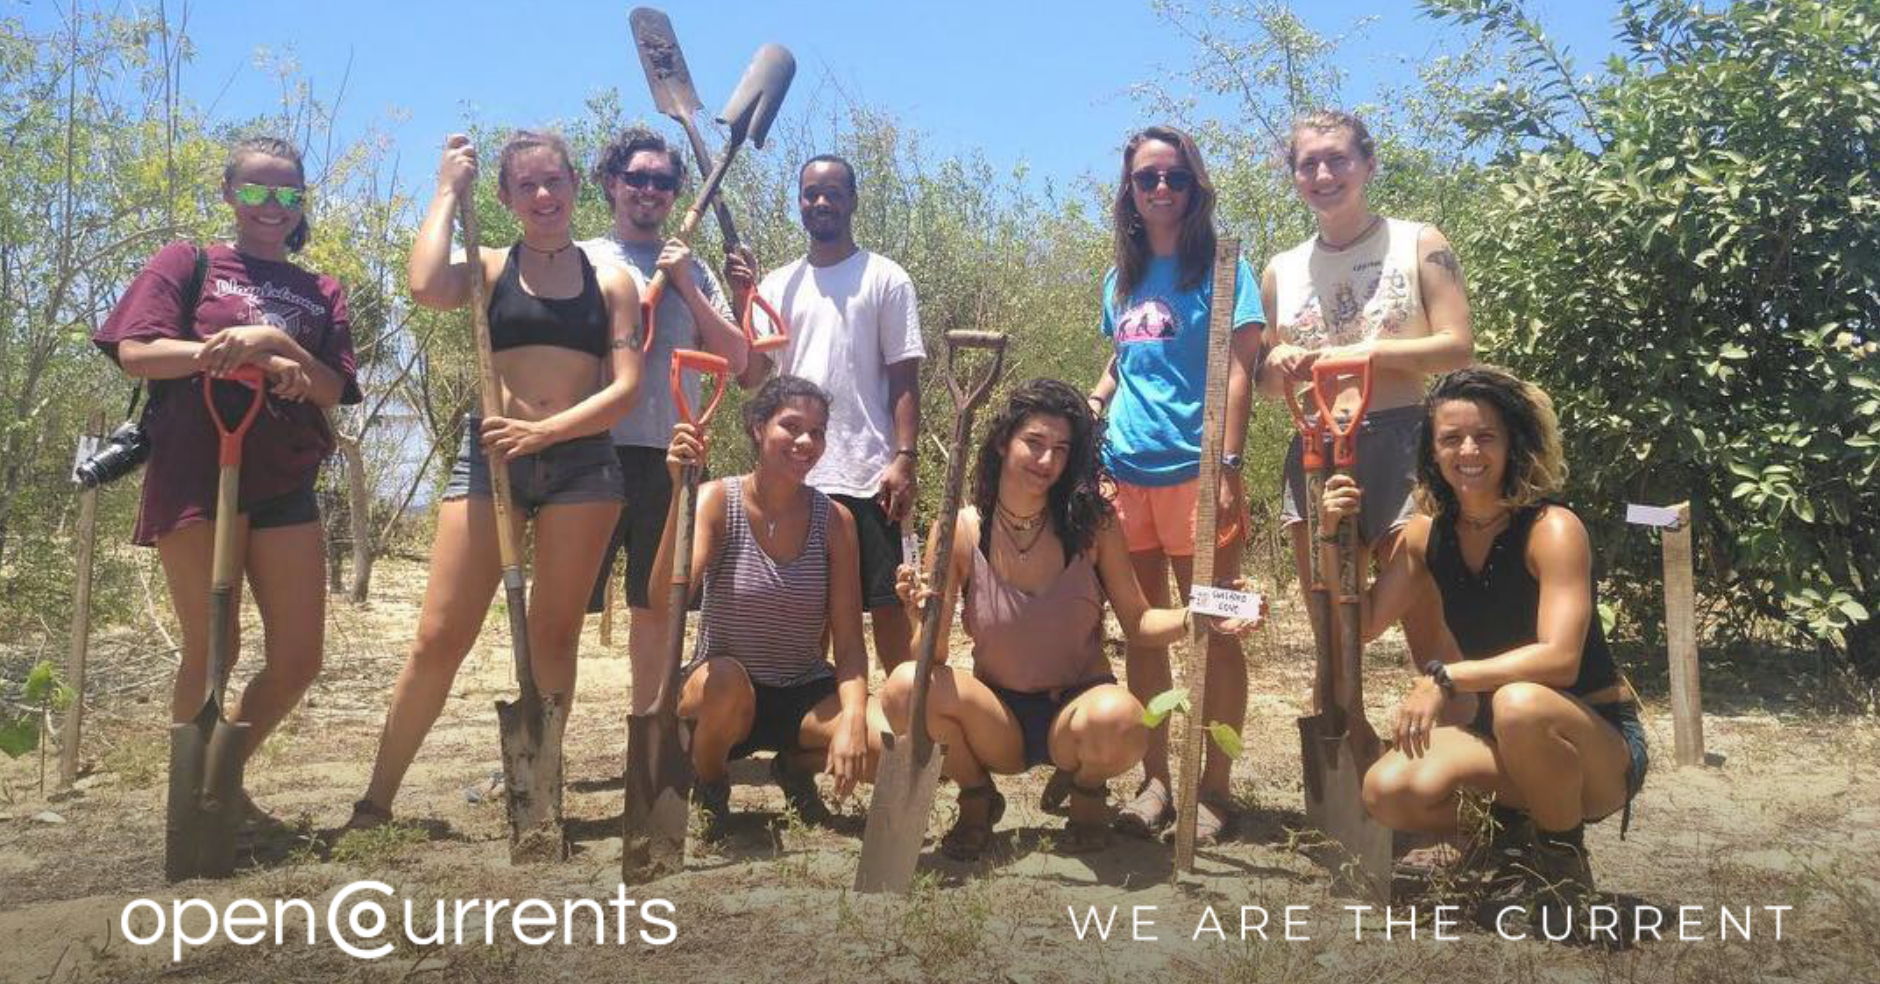
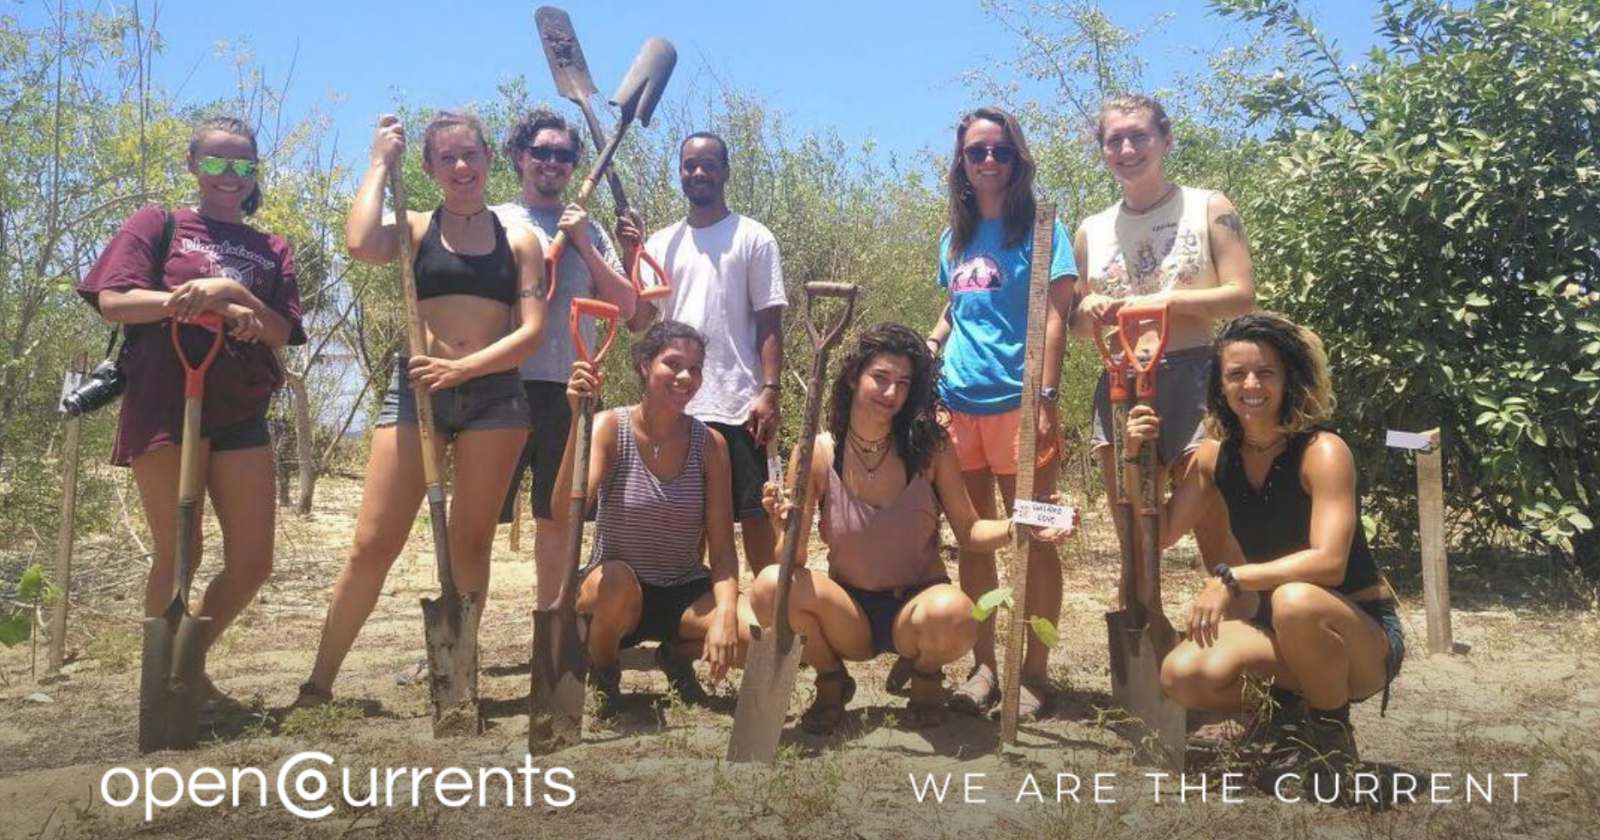
update share image

diff --git a/openCurrents/templates/partials/head.html b/openCurrents/templates/partials/head.html
@@ -23,6 +23,8 @@ for purchases with businesses.">
 <meta property="og:description" content="openCurrents gives businesses a new
   way to thank you for volunteering." />
 <meta property="og:image" content="{% static "img/fb-share-img.png" %}" />
+<meta property="og:image:width" content="1600" />
+<meta property="og:image:height" content="840" />
 <link href="{% static "css/slidebars.min.css" %}" rel="stylesheet" type="text/css">
 <link href="{% static "css/foundation.css" %}" rel="stylesheet" type="text/css">
 <link href="{% static "css/app.css" %}" rel="stylesheet" type="text/css">
